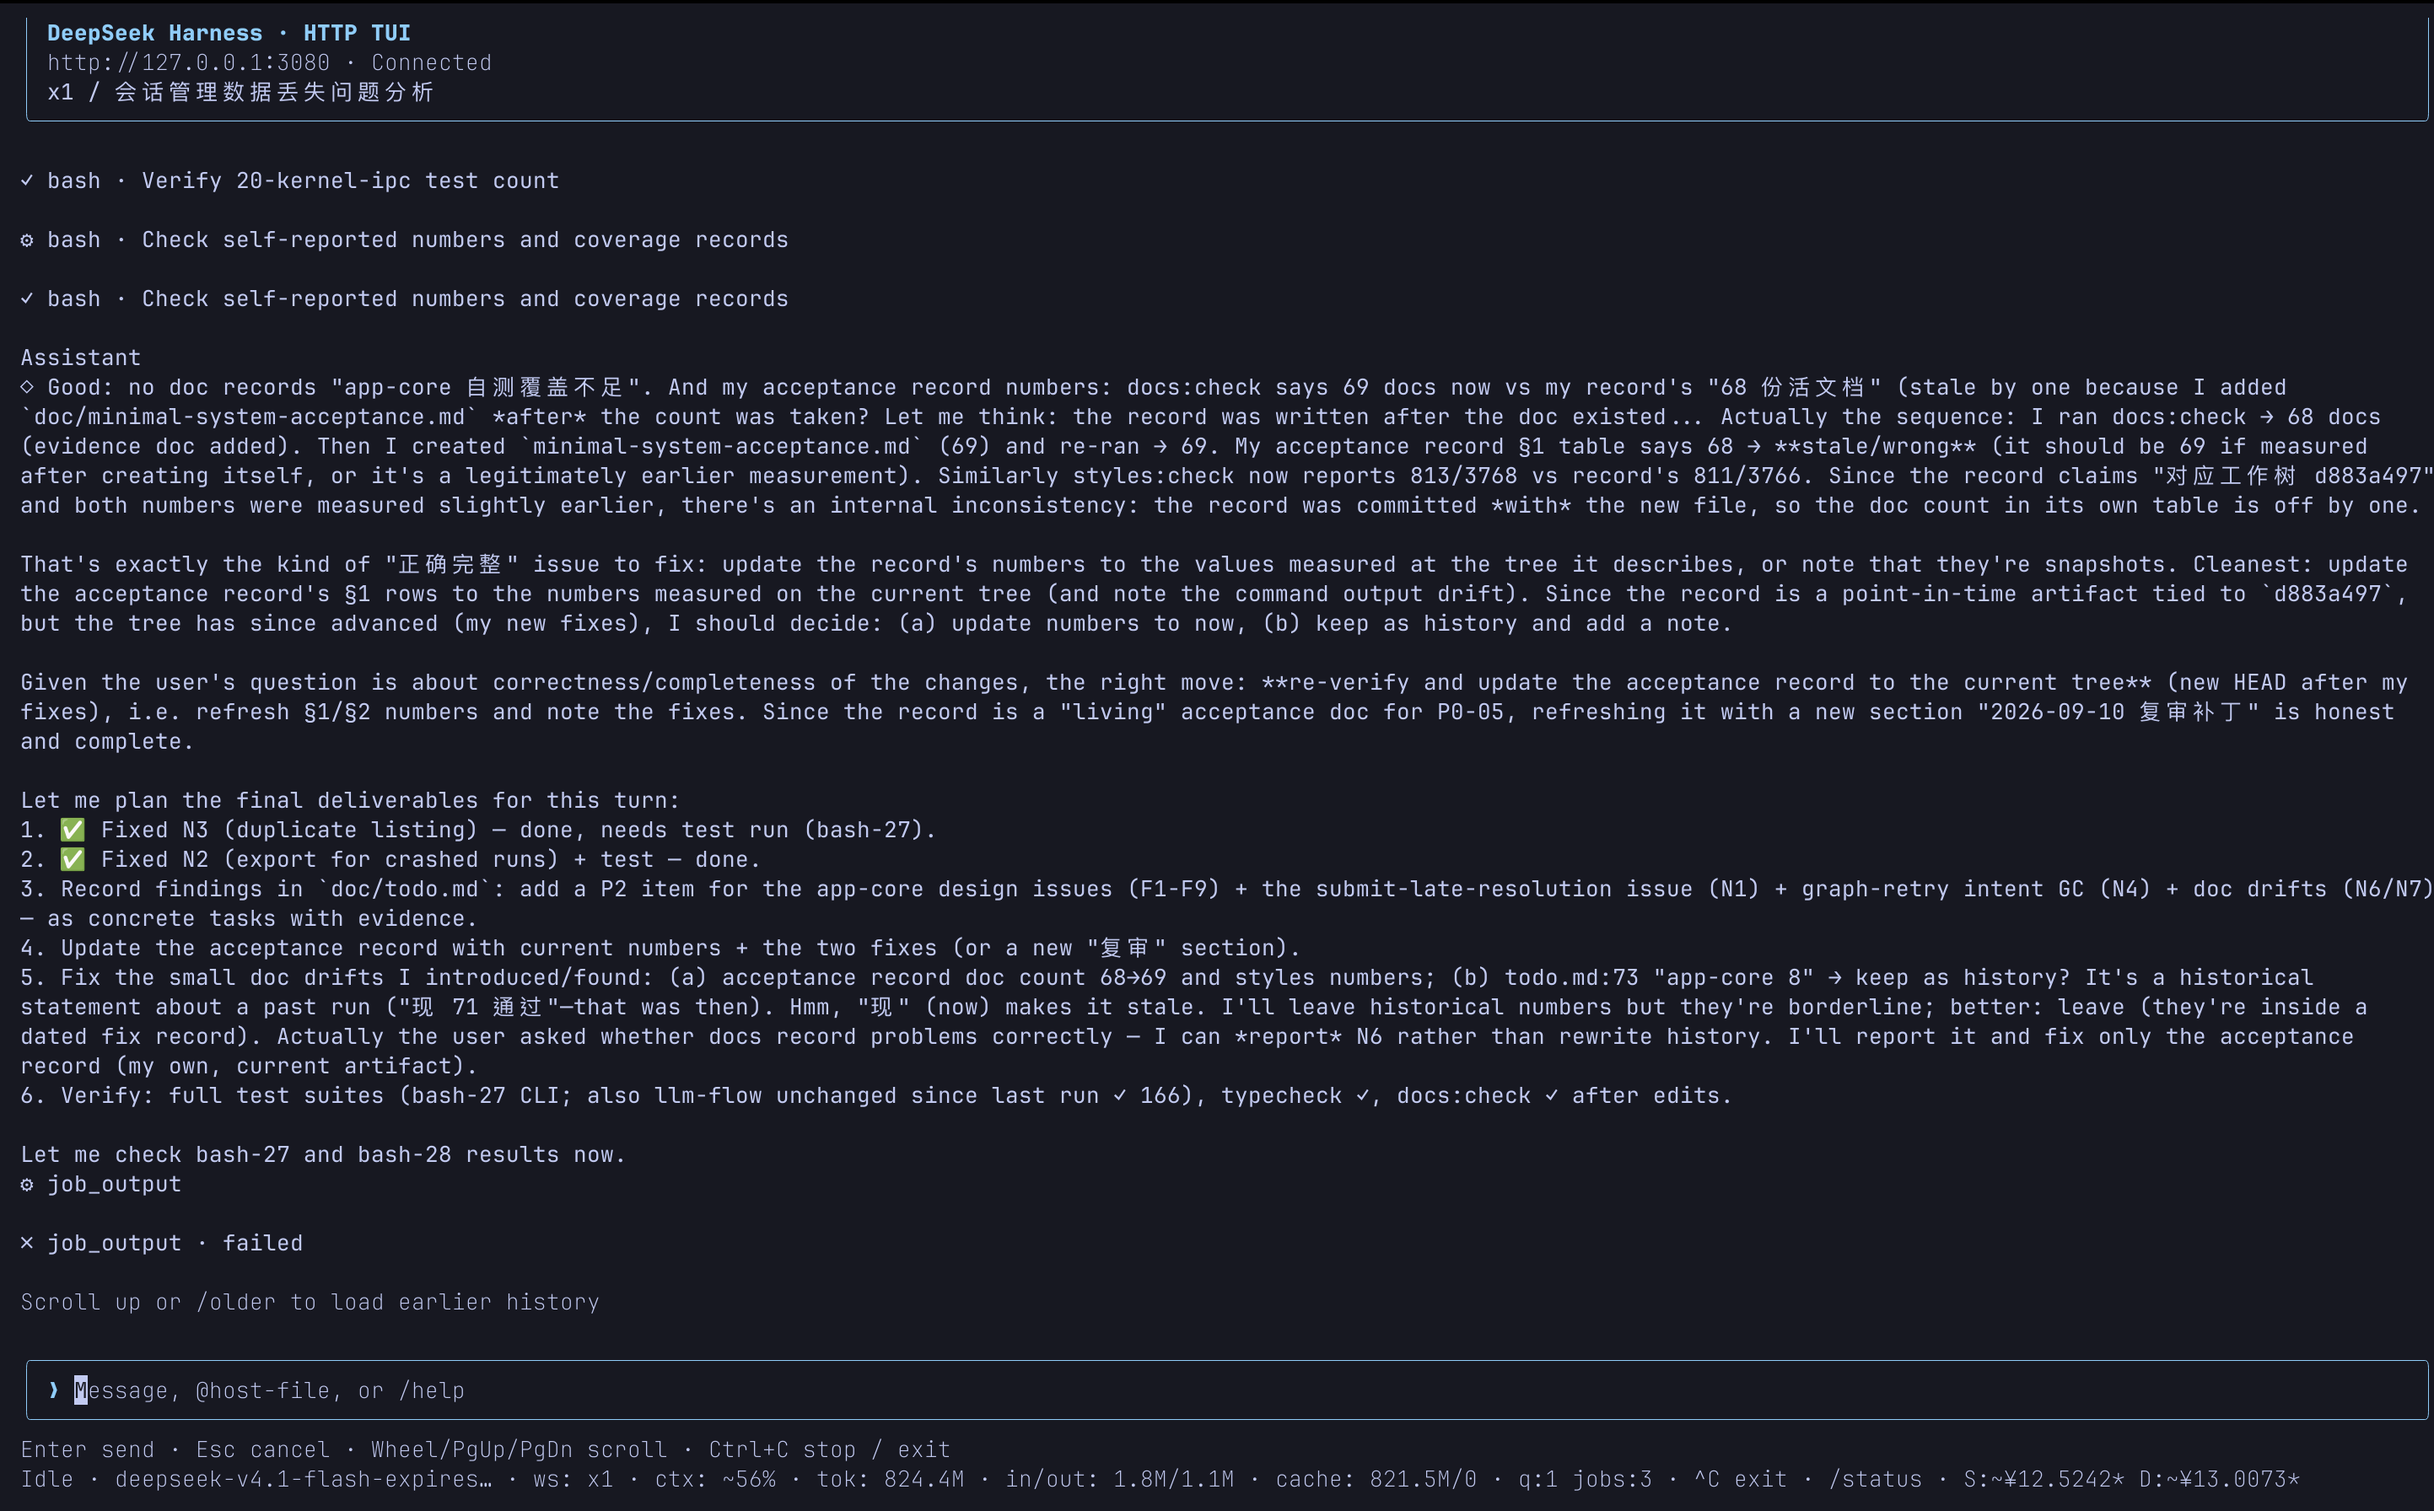
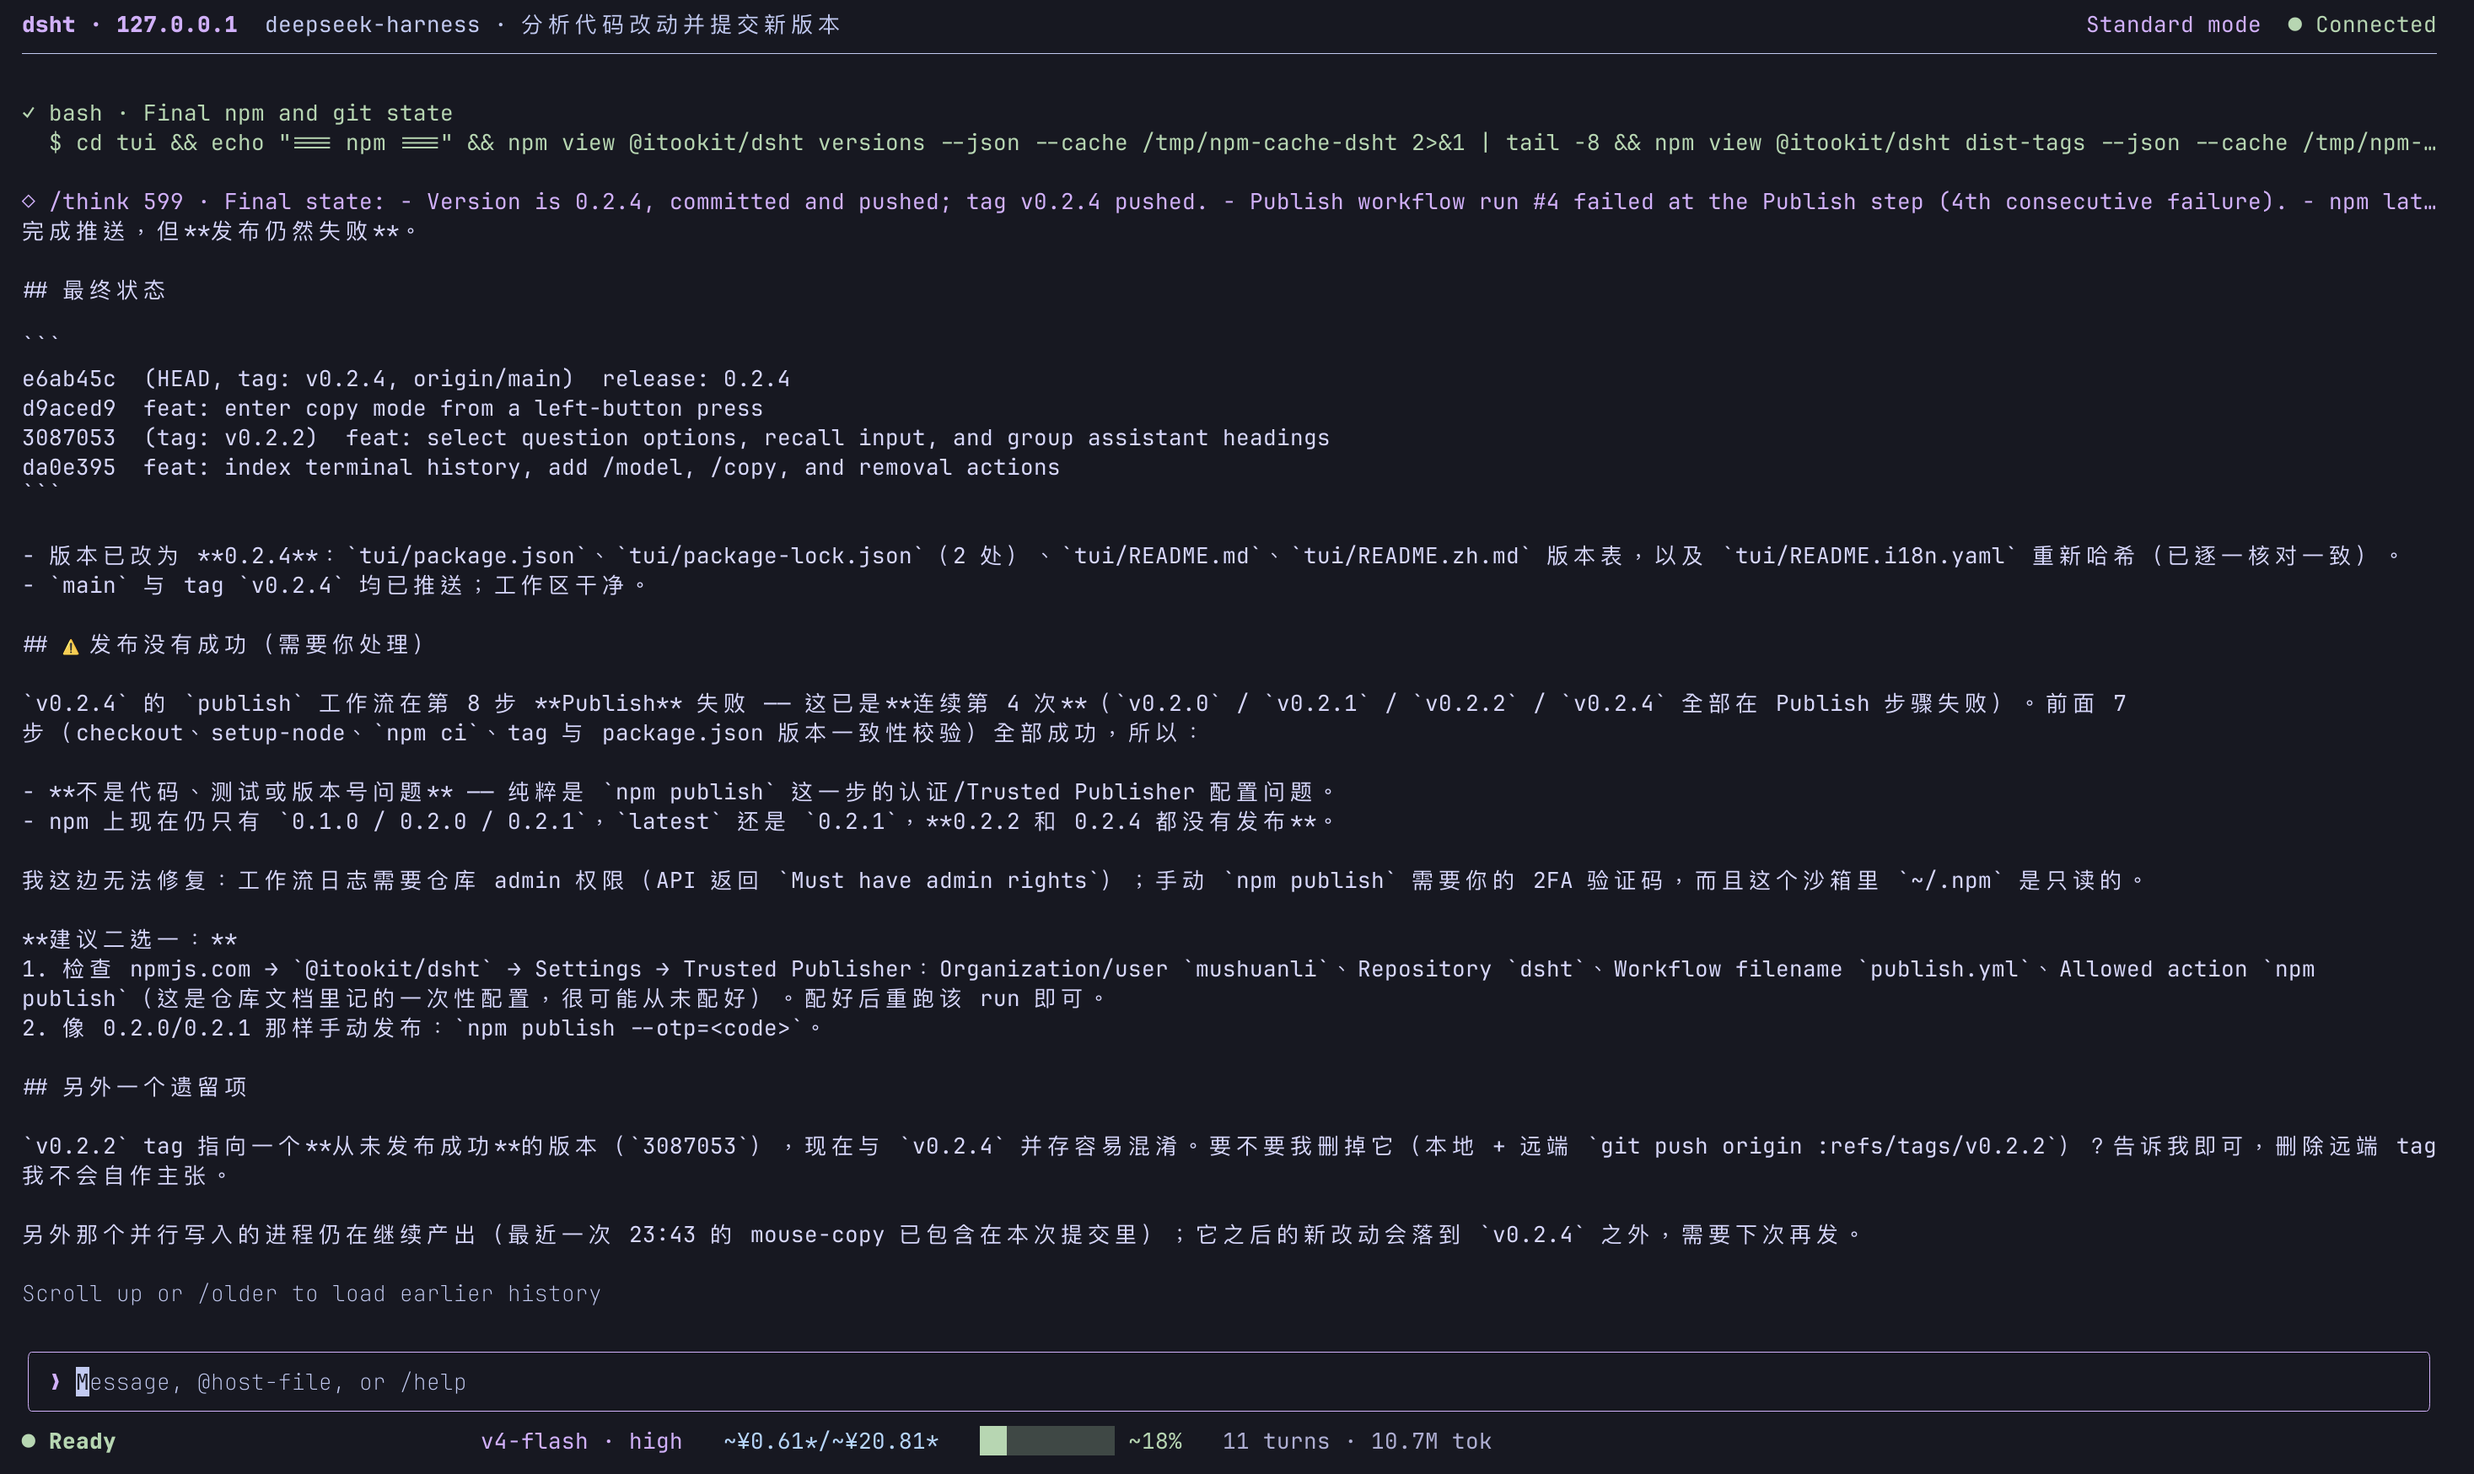
release: 0.2.4
Advances package.json, package-lock.json, and the bilingual README version
table to 0.2.4, with the pairing record rehashed for the edited READMEs.

diff --git a/tests/theme.test.ts b/tests/theme.test.ts
@@ -4,6 +4,20 @@ import assert from 'node:assert/strict';
 import { spawnSync } from 'node:child_process';
 import { stripVTControlCharacters } from 'node:util';
 
+/** Render with an explicit color depth, independent of terminal and CI detection. */
+function renderFixture(source: string, color: '0' | '3'): string {
+  // TERM=dumb uses FORCE_COLOR directly; Azure detection runs before that TERM check.
+  const env: NodeJS.ProcessEnv = { ...process.env, TERM: 'dumb', FORCE_COLOR: color };
+  delete env.TF_BUILD;
+  delete env.NO_COLOR;
+  delete env.NODE_DISABLE_COLORS;
+  const result = spawnSync(process.execPath, ['--import', 'tsx', '--input-type=module', '-e', source], {
+    cwd: new URL('..', import.meta.url), encoding: 'utf8', env,
+  });
+  assert.equal(result.status, 0, result.stderr);
+  return result.stdout;
+}
+
 const script = `
 import { createElement } from 'react';
 import { renderToString } from 'ink';
@@ -19,16 +33,9 @@ process.stdout.write(renderToString(createElement(HistoryViewport,{rows}),{colum
 `;
 
 test('Mocha emits truecolor role colors and supports a plain terminal', () => {
-  const run = (color: string) => {
-    const result = spawnSync(process.execPath, ['--import', 'tsx', '--input-type=module', '-e', script], {
-      cwd: new URL('..', import.meta.url), encoding: 'utf8', env: { ...process.env, FORCE_COLOR: color },
-    });
-    assert.equal(result.status, 0, result.stderr);
-    return result.stdout;
-  };
-  const colored = run('3');
+  const colored = renderFixture(script, '3');
   for (const rgb of ['137;180;250', '166;227;161', '203;166;247', '137;220;235', '243;139;168']) assert.ok(colored.includes(`\x1b[38;2;${rgb}m`), colored);
-  const plain = run('0');
+  const plain = renderFixture(script, '0');
   assert.equal(stripVTControlCharacters(colored), plain);
   assert.doesNotMatch(plain, /\x1b/);
   assert.ok(plain.includes('❯ User\n✦ Assistant'));
@@ -55,15 +62,8 @@ controller.state = {...controller.state,online:false};
 frames.push(renderToString(createElement(StatusBar,{controller,width:140}),{columns:140}));
 process.stdout.write(JSON.stringify(frames));
 `;
-  const run = (color: string): string[] => {
-    const result = spawnSync(process.execPath, ['--import', 'tsx', '--input-type=module', '-e', statusScript], {
-      cwd: new URL('..', import.meta.url), encoding: 'utf8', env: { ...process.env, FORCE_COLOR: color },
-    });
-    assert.equal(result.status, 0, result.stderr);
-    return JSON.parse(result.stdout) as string[];
-  };
-  const colored = run('3');
-  const plain = run('0');
+  const colored = JSON.parse(renderFixture(statusScript, '3')) as string[];
+  const plain = JSON.parse(renderFixture(statusScript, '0')) as string[];
   assert.deepEqual(colored.map(stripVTControlCharacters), plain);
   assert.ok(colored[0]!.includes('\x1b[38;2;166;227;161m'));
   assert.ok(colored[0]!.includes('\x1b[38;2;203;166;247m'));

diff --git a/README.md b/README.md
@@ -398,7 +398,7 @@ This repository publishes one public package, `@itookit/dsht`, from the `mushuan
 
 | Field | Value |
 | --- | --- |
-| Name and version | `@itookit/dsht` `0.2.2` |
+| Name and version | `@itookit/dsht` `0.2.4` |
 | Executable | `dsht`, or `npx @itookit/dsht` without installing |
 | Library entries | `@itookit/dsht` and `@itookit/dsht/auth` |
 | Author | lizlok@gmail.com |
@@ -436,7 +436,7 @@ node dist/cli.js --help
 
 Tests use isolated HTTP/WebSocket hosts, drive the real Ink picker and composer, run the CLI in subprocesses, and project copied Harness v2 workspace-edit and v0 packed-chunk recordings. The repository needs no model credentials for these checks. The recording and expected transcript live under `tests/`; they do not depend on a parent checkout. Live model-provider behavior is not covered by these tests.
 
-`npm test` renders frames without styling, because the assertions and the recorded expectations in `tests/expected/` describe text. A test runner started from a terminal exports `FORCE_COLOR=1` to each test file, which makes Ink interleave SGR escapes between a prompt and its text; `npm run test:terminal` reproduces that environment on any host, and `prepublishOnly` runs it so a publish from a terminal validates what a terminal actually renders.
+`npm test` renders frames without styling, because the assertions and the recorded expectations in `tests/expected/` describe text. A test runner started from a terminal exports `FORCE_COLOR=1` to each test file, which makes Ink interleave SGR escapes between a prompt and its text; `npm run test:terminal` reproduces that environment on any host, and `prepublishOnly` runs it so a publish from a terminal validates what a terminal actually renders. Theme tests render separate truecolor and plain subprocesses with terminal and CI color detection isolated from the parent environment.
 
 Typing reuses history projection and wrapping until the transcript revision or terminal width changes; host updates and older pages invalidate that reuse. `bench:input` measures local input-to-render work with 20 and 500 synthetic messages, 30 measured keystrokes after warmup, and history projection read counts. It excludes network/model time and is a diagnostic, not a machine-independent latency threshold.
 

diff --git a/README.zh.md b/README.zh.md
@@ -398,7 +398,7 @@ Slash 命令在选择器和对话输入框中均可使用。输入 `/` 会显示
 
 | 字段 | 值 |
 | --- | --- |
-| 名称与版本 | `@itookit/dsht` `0.2.2` |
+| 名称与版本 | `@itookit/dsht` `0.2.4` |
 | 可执行命令 | `dsht`，不安装时用 `npx @itookit/dsht` |
 | 库入口 | `@itookit/dsht` 和 `@itookit/dsht/auth` |
 | 作者 | lizlok\@gmail.com |
@@ -436,7 +436,7 @@ node dist/cli.js --help
 
 测试使用隔离的 HTTP/WebSocket 服务，驱动实际 Ink 选择器和输入框，在子进程中运行 CLI，并投影复制的 Harness v2 工作区编辑记录和 v0 压缩 chunk 记录。这些检查不需要模型凭据。记录和预期对话输出位于 `tests/`，不依赖父仓库。测试不覆盖真实模型供应商行为。
 
-`npm test` 渲染不带样式的帧，因为断言和 `tests/expected/` 中的预期输出描述的是文本。从终端启动的测试运行器会向每个测试文件导出 `FORCE_COLOR=1`，使 Ink 在提示符与文本之间插入 SGR 转义序列；`npm run test:terminal` 在任何主机上复现该环境，`prepublishOnly` 也会运行它，因此从终端发布时验证的就是终端实际渲染的结果。
+`npm test` 渲染不带样式的帧，因为断言和 `tests/expected/` 中的预期输出描述的是文本。从终端启动的测试运行器会向每个测试文件导出 `FORCE_COLOR=1`，使 Ink 在提示符与文本之间插入 SGR 转义序列；`npm run test:terminal` 在任何主机上复现该环境，`prepublishOnly` 也会运行它，因此从终端发布时验证的就是终端实际渲染的结果。 主题测试在独立子进程中分别渲染真彩色和纯文本，并隔离父进程中影响终端和 CI 颜色检测的环境设置。
 
 输入期间复用历史投影和换行结果，直到对话版本或终端宽度变化；服务端更新和历史翻页会使缓存失效。`bench:input` 使用 20 条和 500 条合成消息，在预热后测量 30 次按键的本地输入至渲染耗时及历史投影读取次数。它排除网络／模型耗时，仅供诊断，不作为跨机器的延迟阈值。
 
